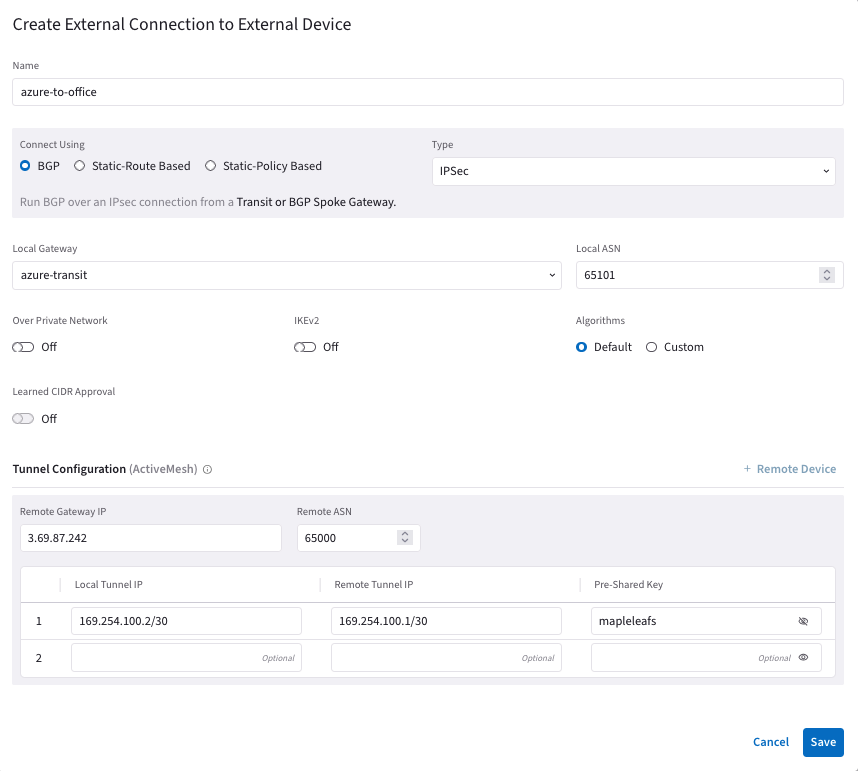
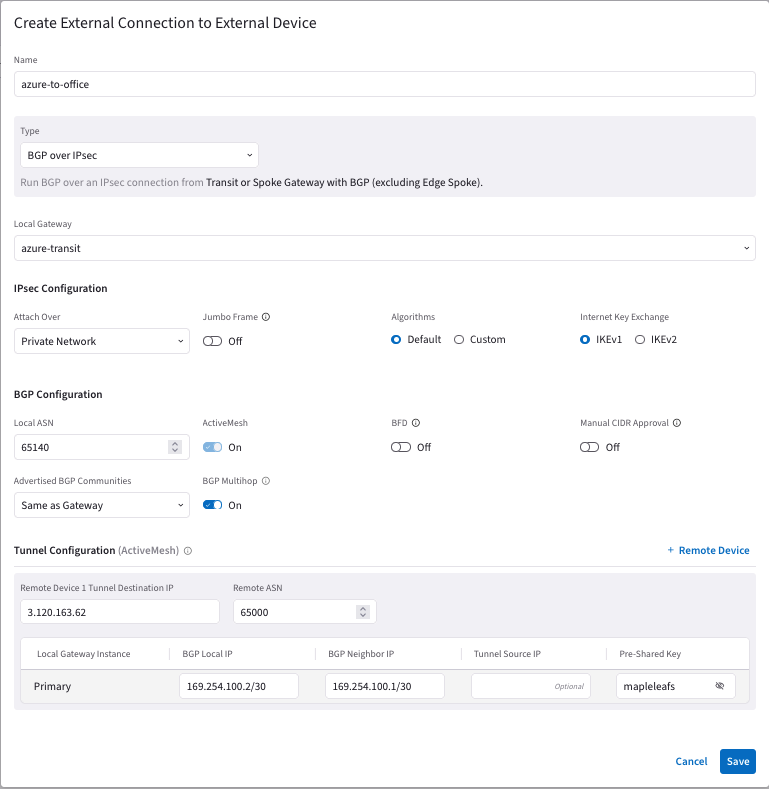
Flight school 8.0

diff --git a/flightschool/docs/lab2.md b/flightschool/docs/lab2.md
@@ -26,20 +26,16 @@ In order to connect your Multicloud environment to the office, we will create an
 
 Now let’s add the office connection. In Copilot, navigate to **_Networking --> Connectivity --> External Connections (S2C)_**. Click the **`+ External Connection`** button and select `External Device` to add a new connection.
 
-|                       |                                                                                                                                                                                                                    |
-| --------------------- | ------------------------------------------------------------------------------------------------------------------------------------------------------------------------------------------------------------------ |
-| **Name**              | azure-to-office                                                                                                                                                                                                    |
-| **Connect Using**     | BGP                                                                                                                                                                                                                |
-| **Type**              | IPSec                                                                                                                                                                                                              |
-| **Local Gateway**     | azure-transit                                                                                                                                                                                                      |
-| **Local ASN**         | 65pod[#] _For Pods 1-9, double pad the pod# with an additional 0 (ie. 65004). For Pods 10-99 single pad (ie. 65010). For Pods > 100, no padding is needed (ie. 65100)_                                             |
-| **Remote Gateway IP** | <ip-address> _Please open a terminal session from your own pc and resolve the following FQDN to its IP address `onprem.pod[#].aviatrixlab.com`. Do NOT enter the FQDN on this field. Instead enter the IP address_ |
-| **Remote ASN**        | 65000                                                                                                                                                                                                              |
-| **Local Tunnel IP**   | 169.254.100.2/30                                                                                                                                                                                                   |
-| **Remote Tunnel IP**  | 169.254.100.1/30                                                                                                                                                                                                   |
-| **Pre-shared Key**    | mapleleafs                                                                                                                                                                                                         |
-
-It should look something like the example below. Make sure to put in your own remote gateway IP and AS number.
+|                                           |                                                                                                                                                                                                                    |
+| ----------------------------------------- | ------------------------------------------------------------------------------------------------------------------------------------------------------------------------------------------------------------------ |
+| **Name**                                  | azure-to-office                                                                                                                                                                                                    |
+| **Type**                                  | IPSec                                                                                                                                                                                                              |
+| **Local Gateway**                         | azure-transit                                                                                                                                                                                                      |
+| **Remote Device 1 Tunnel Destination IP** | <ip-address> _Please open a terminal session from your own pc and resolve the following FQDN to its IP address `onprem.pod[#].aviatrixlab.com`. Do NOT enter the FQDN on this field. Instead enter the IP address_ |
+| **Remote ASN**                            | 65000                                                                                                                                                                                                              |
+| **BGP Local IP**                          | 169.254.100.2/30                                                                                                                                                                                                   |
+| **BGP Neighbor IP**                       | 169.254.100.1/30                                                                                                                                                                                                   |
+| **Pre-shared Key**                        | mapleleafs                                                                                                                                                                                                         |
 
 ```{figure} images/lab2-pod.png
 ---
@@ -53,6 +49,8 @@ For Linux/Mac you can use the `"host"` command.
 
 For Windows you can use the `"nslookup"` command.
 ```
+
+It should look something like the example below. Make sure to put in your own remote gateway IP and AS number.
 
 ```{figure} images/lab2-configure-ipsec.png
 ---

diff --git a/flightschool/docs/lab3.md b/flightschool/docs/lab3.md
@@ -86,7 +86,7 @@ For the VPC CIDR, replace **pod[#]** with your pod number. For example, if your 
 Hit **Save**, and the VPC will be created.
 
 ```{caution}
-Wait a few minutes for the **Aviatrix Controller** to create the new VPN and the additional native cloud constructs (i.e. IGW, Subnets, Routing Tables).
+Wait a few minutes for the **Aviatrix Controller** to create the new VPC and the additional native cloud constructs (i.e. IGW, Subnets, Routing Tables).
 ```
   
 ### Expected Results
@@ -103,12 +103,12 @@ In this exercise we are going to launch the Aviatrix Transit Gateway in the newl
 
 * Enter the following fields:
 
-|                          |                                                         |
-| ------------------------ | ------------------------------------------------------- |
-| **Transit Gateway VPC**  | aws-transit                                             |
-| **Gateway Name**         | aws-transit                                             |
-| **Gateway Size**         | t3.micro                                                |
-| **Instance 1 (Primary)** | aws-transit-Public-1-eu-central-1a + Allocate New EIP   |
+|                          |                                                                                   |
+| ------------------------ | --------------------------------------------------------------------------------- |
+| **Transit Gateway VPC**  | aws-transit                                                                       |
+| **Gateway Name**         | aws-transit                                                                       |
+| **Gateway Size**         | t3.micro                                                                          |
+| **Instance 1 (Primary)** | aws-transit-Public-1-eu-central-1a + Allocate New EIP                             |
 | **Transit Peers**        | Click "Select Transit Gateways"" and add the **azure-transit** as a peer and save |
 
 ```{figure} images/lab3-transit-config.png
